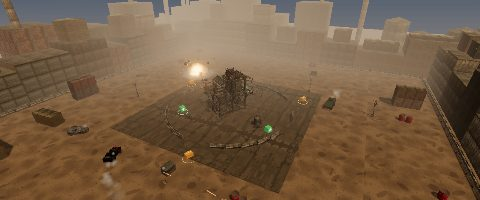
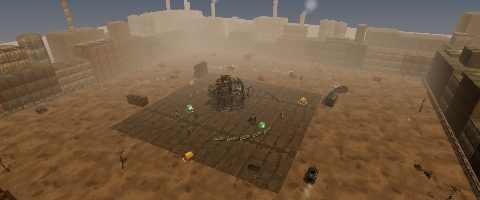
Real simulated explosions, fire and smoke; slower cars; roomier arenas
- Effects play Unity Labs' CC0 VFX flipbooks (Houdini simulations) as WebP atlases with frame
  cross-fading: big and small explosions, fireballs, looping flames, rolling smoke, ground dust rings,
  fireball muzzle flashes, cloud-based smoke screen and toxic haze
- Fewer, larger flame and smoke sprites so fire reads as tongues of flame, not a white blob
- Top speed about 20% lower again, gentler steering curve on the stick, steadier at top speed
- Arenas about 20% larger with wider lanes between cover

Claude-Session: https://claude.ai/code/session_01Lf2sJUR3KNdHaBL2r5wrqA

diff --git a/src/fx.js b/src/fx.js
@@ -123,6 +123,74 @@ class System {
   clear() { this.n = 0; this.geo.setDrawRange(0, 0); }
 }
 
+// ---------- flipbook particles ----------
+// Pre-rendered simulations (Unity Labs VFX flipbooks, CC0) played back frame by frame on each particle,
+// with a cross-fade between neighbouring frames so even 25-frame explosions look smooth.
+const FVERT = `
+attribute float size; attribute vec4 pcolor; attribute float rot; attribute float frame;
+varying vec4 vColor; varying float vRot; varying float vFrame;
+uniform float scale;
+void main() {
+  vColor = pcolor; vRot = rot; vFrame = frame;
+  vec4 mv = modelViewMatrix * vec4(position, 1.0);
+  gl_PointSize = size * scale / max(0.1, -mv.z);
+  gl_Position = projectionMatrix * mv;
+}`;
+const FFRAG = `
+uniform sampler2D map; uniform float boost; uniform vec2 grid; uniform float frames;
+varying vec4 vColor; varying float vRot; varying float vFrame;
+vec4 cell(float f, vec2 q) {
+  float col = mod(f, grid.x), row = floor(f / grid.x);
+  return texture2D(map, vec2((col + q.x) / grid.x, 1.0 - (row + q.y) / grid.y));
+}
+void main() {
+  vec2 p = gl_PointCoord - 0.5;
+  float c = cos(vRot), s = sin(vRot);
+  vec2 q = vec2(c * p.x - s * p.y, s * p.x + c * p.y) + 0.5;
+  if (q.x < 0.0 || q.x > 1.0 || q.y < 0.0 || q.y > 1.0) discard;
+  q = clamp(q, 0.004, 0.996); // keep away from the neighbouring cell
+  float f0 = floor(vFrame), k = vFrame - f0;
+  vec4 t = mix(cell(f0, q), cell(min(f0 + 1.0, frames - 1.0), q), k);
+  float a = t.a * vColor.a;
+  if (a < 0.01) discard;
+  gl_FragColor = vec4(vColor.rgb * t.rgb * boost, a);
+}`;
+const FLIP = {}; // name -> { tex, cols, rows, frames }
+function flipTex(name, cols, rows) {
+  if (FLIP[name]) return FLIP[name];
+  const tex = new THREE.TextureLoader().load(new URL(`../assets/vfx/${name}.webp`, import.meta.url).href);
+  tex.colorSpace = THREE.SRGBColorSpace; tex.generateMipmaps = false; tex.minFilter = THREE.LinearFilter; // mips would bleed cells together
+  return (FLIP[name] = { tex, cols, rows, frames: cols * rows });
+}
+class FlipSystem extends System {
+  constructor(max, additive, sheet, boost) {
+    super(max, additive, sheet.tex, boost);
+    this.sheet = sheet;
+    this.frame = new Float32Array(max); this.fps = new Float32Array(max); this.f0 = new Float32Array(max);
+    this.geo.setAttribute('frame', new THREE.BufferAttribute(this.frame, 1).setUsage(THREE.DynamicDrawUsage));
+    this.mat.vertexShader = FVERT; this.mat.fragmentShader = FFRAG;
+    this.mat.uniforms.grid = { value: new THREE.Vector2(sheet.cols, sheet.rows) }; this.mat.uniforms.frames = { value: sheet.frames };
+  }
+  // fps 0 plays the whole sequence once over the particle's life; fps > 0 loops at that rate (flames)
+  spawnF(x, y, z, vx, vy, vz, life, s0, s1, c0, c1, grav = 0, drag = 1, delay = 0, fps = 0, spin = null) {
+    const n = this.n; this.spawn(x, y, z, vx, vy, vz, life, s0, s1, c0, c1, grav, drag, delay);
+    if (this.n === n) return;
+    this.fps[n] = fps; this.f0[n] = fps ? Math.random() * this.sheet.frames : 0; this.frame[n] = this.f0[n];
+    if (spin !== null) this.spin[n] = spin;
+  }
+  update(dt) {
+    const F = this.sheet.frames;
+    for (let i = 0; i < this.n; i++) {
+      if (this.delay[i] > 0) continue;
+      const t = 1 - this.life[i] / this.maxLife[i];
+      this.frame[i] = this.fps[i] ? (this.f0[i] + (this.maxLife[i] - this.life[i]) * this.fps[i]) % (F - 1) : Math.min(F - 1.001, t * (F - 1));
+    }
+    super.update(dt);
+    this.geo.attributes.frame.needsUpdate = true;
+  }
+  kill(i) { const j = this.n - 1; this.frame[i] = this.frame[j]; this.fps[i] = this.fps[j]; this.f0[i] = this.f0[j]; super.kill(i); }
+}
+
 const R = (a, b) => a + Math.random() * (b - a);
 let PUFF = null, SCORCH = null;
 
@@ -135,6 +203,17 @@ export class FX {
     this.hot = new System(900, true, PUFF, 2.4); // sparks and flashes: small, very bright, they bloom
     this.smoke.points.renderOrder = 1; this.fire.points.renderOrder = 2; this.hot.points.renderOrder = 3;
     scene.add(this.smoke.points, this.fire.points, this.hot.points);
+    // flipbook layers: real explosion/fire/smoke simulations
+    this.fbBlast = new FlipSystem(40, false, flipTex('explosion_big', 5, 5), 1.45);
+    this.fbBlastS = new FlipSystem(70, false, flipTex('explosion', 5, 5), 1.4);
+    this.fbFire = new FlipSystem(260, true, flipTex('flame', 16, 4), 1.05);
+    this.fbFire2 = new FlipSystem(140, true, flipTex('flame_b', 16, 4), 1.05);
+    this.fbBall = new FlipSystem(160, true, flipTex('fireball', 8, 8), 1.25);
+    this.fbSmoke = new FlipSystem(320, false, flipTex('smoke', 8, 8), 1);
+    this.fbCloud = new FlipSystem(200, false, flipTex('cloud', 8, 8), 1);
+    this.fbDisc = new FlipSystem(60, false, flipTex('disc', 16, 4), 1);
+    this.flips = [this.fbSmoke, this.fbCloud, this.fbDisc, this.fbBlast, this.fbBlastS, this.fbFire, this.fbFire2, this.fbBall];
+    this.flips.forEach((f, i) => { f.points.renderOrder = 1 + i * 0.1; scene.add(f.points); });
     this.lights = [0, 1, 2].map(() => { const l = new THREE.PointLight(0xff9a40, 0, 55, 1.5); scene.add(l); return { l, t: 0 }; });
     this.li = 0;
     for (const l of this.lines || []) this.scene.remove(l.m);
@@ -143,7 +222,7 @@ export class FX {
     this.debrisMat = [new THREE.MeshStandardMaterial({ color: 0x2a2724, metalness: 0.7, roughness: 0.5, flatShading: true }), new THREE.MeshStandardMaterial({ color: 0x5a3018, metalness: 0.4, roughness: 0.8, flatShading: true })];
     this.scorchGeo = new THREE.PlaneGeometry(1, 1);
   }
-  setScale(h) { for (const s of [this.smoke, this.fire, this.hot]) s.mat.uniforms.scale.value = h * 0.9; }
+  setScale(h) { for (const s of [this.smoke, this.fire, this.hot, ...this.flips]) s.mat.uniforms.scale.value = h * 0.9; }
 
   light(x, y, z, power, color = 0xff9a40) {
     const L = this.lights[this.li++ % this.lights.length];
@@ -151,35 +230,40 @@ export class FX {
   }
 
   explosion(x, z, size = 1, opts = {}) {
-    const y = 1.0;
-    // 1) white-hot core flash
-    this.hot.spawn(x, y + 0.8, z, 0, 0, 0, 0.1, 4 * size, 9 * size, [1, 0.75, 0.45, 0.55], [1, 0.35, 0.08, 0]);
-    // 2) rolling fireball
-    for (let i = 0; i < 16 * size; i++) {
-      const a = Math.random() * 6.28, el = R(-0.2, 1.2), s = R(3, 9) * size;
-      this.fire.spawn(x + R(-0.5, 0.5), y + R(0, 1), z + R(-0.5, 0.5), Math.cos(a) * s * Math.cos(el), Math.sin(el) * s + 2, Math.sin(a) * s * Math.cos(el),
-        R(0.5, 1.0), R(2, 3.5) * size, R(5, 8) * size, [1, R(0.45, 0.6), 0.15, 0.42], [0.45, 0.06, 0.02, 0], -3, 2.6, R(0, 0.08));
+    const y = 1.0, big = size >= 1.2;
+    // 1) flash
+    this.hot.spawn(x, y + 0.8, z, 0, 0, 0, 0.09, 5 * size, 11 * size, [1, 0.8, 0.55, 0.6], [1, 0.4, 0.1, 0]);
+    // 2) the main blast: one big simulated explosion (fire turning into its own smoke), plus offset secondary bursts
+    (big ? this.fbBlast : this.fbBlastS).spawnF(x, y + 1.6 * size, z, 0, 1.2, 0, R(1.3, 1.6) * Math.max(1, size * 0.9), 7.5 * size, 10.5 * size, [1, 1, 1, 1], [1, 1, 1, 0.85], -0.4, 1);
+    const extra = Math.round(2 + size * 2);
+    for (let i = 0; i < extra; i++) {
+      const a = Math.random() * 6.28, d = R(1, 2.6) * size;
+      this.fbBlastS.spawnF(x + Math.cos(a) * d, y + R(0.6, 2) * size, z + Math.sin(a) * d, Math.cos(a) * 2, R(0.5, 2.5), Math.sin(a) * 2, R(1.1, 1.5), R(3.5, 5.5) * size, R(6, 8) * size, [1, 1, 1, 1], [1, 1, 1, 0.7], -0.3, 1.2, R(0.04, 0.22));
     }
-    // 3) thick smoke column that takes over as the fire dies
-    for (let i = 0; i < 26 * size; i++) {
-      const a = Math.random() * 6.28, s = R(1, 4.5) * size, dark = R(0.04, 0.1);
-      this.smoke.spawn(x + R(-1.2, 1.2), y + R(0.5, 2.5), z + R(-1.2, 1.2), Math.cos(a) * s, R(2.5, 6), Math.sin(a) * s,
-        R(2.2, 4.2), R(3.5, 5) * size, R(10, 15) * size, [dark, dark * 0.95, dark * 0.9, 0.92], [0.18, 0.17, 0.16, 0], -0.8, 0.9, R(0.12, 0.35));
+    // 3) fire billows thrown outward
+    for (let i = 0; i < 6 * size; i++) {
+      const a = Math.random() * 6.28, sp = R(4, 9) * size;
+      this.fbBall.spawnF(x, y + 0.6, z, Math.cos(a) * sp, R(2, 6), Math.sin(a) * sp, R(0.45, 0.8), R(1.6, 2.6) * size, R(3.5, 5) * size, [1, 0.85, 0.7, 0.9], [0.9, 0.35, 0.12, 0], -2, 2.4, 0, 0);
     }
-    // 4) sparks and burning bits arcing out
-    for (let i = 0; i < 34 * size; i++) {
+    // 4) the smoke column that lingers after
+    for (let i = 0; i < 6 * size; i++) {
+      const a = Math.random() * 6.28, sp = R(0.5, 2.5) * size, dk = R(0.18, 0.3);
+      this.fbSmoke.spawnF(x + R(-1, 1) * size, y + R(1.5, 3) * size, z + R(-1, 1) * size, Math.cos(a) * sp, R(2, 4.5), Math.sin(a) * sp, R(3.2, 5), R(5, 7) * size, R(12, 17) * size, [dk, dk * 0.95, dk * 0.9, 0.85], [0.35, 0.34, 0.33, 0], -0.4, 0.6, R(0.5, 1.0));
+    }
+    // 5) ground dust ring
+    for (let i = 0; i < 8; i++) {
+      const a = (i / 8) * 6.28 + R(-0.3, 0.3), sp = R(10, 16) * size;
+      this.fbDisc.spawnF(x + Math.cos(a), 0.6, z + Math.sin(a), Math.cos(a) * sp, R(0.3, 1), Math.sin(a) * sp, R(0.9, 1.4), 2.5 * size, 6.5 * size, [0.62, 0.55, 0.47, 0.7], [0.6, 0.53, 0.45, 0], 0, 3);
+    }
+    // 6) sparks and burning bits arcing out
+    for (let i = 0; i < 30 * size; i++) {
       const a = Math.random() * 6.28, s = R(12, 32) * size;
       this.hot.spawn(x, y + 0.5, z, Math.cos(a) * s, R(6, 20), Math.sin(a) * s, R(0.5, 1.2), R(0.18, 0.32), 0.08, [1, 0.8, 0.4, 1], [1, 0.3, 0.05, 0], 26, 0.6);
     }
-    // 5) dust shock ring along the ground
-    for (let i = 0; i < 26 * size; i++) {
-      const a = (i / (26 * size)) * 6.28, s = R(14, 22) * size;
-      this.smoke.spawn(x + Math.cos(a), 0.4, z + Math.sin(a), Math.cos(a) * s, R(0.3, 1.5), Math.sin(a) * s, R(0.7, 1.3), 1.5 * size, 5 * size, [0.36, 0.3, 0.24, 0.4], [0.36, 0.3, 0.24, 0], 0, 3.5);
-    }
-    // 6) debris
+    // 7) debris
     const chunks = Math.round((opts.debris ?? 6) * size);
     for (let i = 0; i < chunks; i++) this.chunk(x, y + 0.5, z, size, opts.burning !== false);
-    // 7) light + scorch
+    // 8) light + scorch
     this.light(x, 4, z, 85 * size);
     this.scorch(x, z, 4.5 * size);
   }
@@ -211,8 +295,10 @@ export class FX {
     this.smoke.spawn(x, y, z, R(-1, 1), R(0.5, 1.5), R(-1, 1), 0.5, 0.6, 1.8, [0.5, 0.48, 0.45, 0.5], [0.5, 0.48, 0.45, 0]);
   }
   impact(x, z) { this.smoke.spawn(x, 0.3, z, R(-1, 1), R(1, 3), R(-1, 1), R(0.4, 0.7), 0.6, 2, [0.55, 0.47, 0.38, 0.6], [0.55, 0.47, 0.38, 0], 3); }
-  muzzle(x, y, z, dx, dz, isPlayer) {
-    this.hot.spawn(x, y, z, dx * 4, 0, dz * 4, 0.05, R(1.6, 2.4), 0.8, [1, 0.85, 0.45, 1], [1, 0.5, 0.1, 0]);
+  muzzle(x, y, z, dx, dz, isPlayer) { // a single fireball frame flashed for a few hundredths of a second
+    this.fbBall.spawnF(x + dx * 0.4, y, z + dz * 0.4, dx * 6, 0, dz * 6, 0.06, R(1.1, 1.6), R(1.6, 2.2), [1, 0.95, 0.8, 1], [1, 0.6, 0.25, 0], 0, 1, 0, 0);
+    this.hot.spawn(x, y, z, dx * 4, 0, dz * 4, 0.05, R(1.2, 1.8), 0.6, [1, 0.85, 0.45, 1], [1, 0.5, 0.1, 0]);
+    if (Math.random() < 0.25) this.hot.spawn(x, y, z, dx * 3 + R(-2, 2), R(1, 3), dz * 3 + R(-2, 2), 0.25, 0.12, 0.05, [1, 0.8, 0.4, 1], [1, 0.4, 0.1, 0], 20, 0.5); // ejected spark
     this.hot.spawn(x + dx * 0.5, y, z + dz * 0.5, dx * 10, 0, dz * 10, 0.04, 1.2, 0.5, [1, 0.8, 0.4, 1], [1, 0.4, 0.1, 0]);
     if (isPlayer && Math.random() < 0.5) this.light(x, y + 0.3, z, 18, 0xffb060);
   }
@@ -220,16 +306,19 @@ export class FX {
     this.hot.spawn(x, y, z, R(-0.4, 0.4), R(-0.4, 0.4), R(-0.4, 0.4), 0.09, 1.3, 0.5, [1, 0.8, 0.45, 1], [1, 0.4, 0.1, 0]);
     this.smoke.spawn(x, y, z, R(-0.5, 0.5), R(0.3, 1.2), R(-0.5, 0.5), R(0.9, 1.6), 0.9, 3.6, [0.6, 0.58, 0.55, 0.55], [0.45, 0.44, 0.42, 0]);
   }
-  burn(x, y, z) {
-    this.smoke.spawn(x + R(-0.6, 0.6), y, z + R(-0.6, 0.6), R(-0.4, 0.4), R(2, 4.5), R(-0.4, 0.4), R(1.8, 3.2), 1.6, 6.5, [0.05, 0.045, 0.04, 0.8], [0.14, 0.13, 0.12, 0], -0.3, 0.5);
+  burn(x, y, z) { // thick dark smoke rolling off damaged cars and wrecks
+    if (Math.random() < 0.5) return; // fewer, larger puffs: the flipbook carries the detail
+    const dk = R(0.12, 0.22);
+    this.fbSmoke.spawnF(x + R(-0.5, 0.5), y + 0.3, z + R(-0.5, 0.5), R(-0.5, 0.5), R(2, 3.8), R(-0.5, 0.5), R(2.2, 3.4), 1.6, R(6, 8.5), [dk, dk * 0.95, dk * 0.9, 0.8], [0.3, 0.29, 0.28, 0], -0.25, 0.5);
   }
-  flames(x, y, z, k = 1) {
-    this.fire.spawn(x + R(-0.5, 0.5), y, z + R(-0.5, 0.5), R(-0.4, 0.4), R(2, 4), R(-0.4, 0.4), R(0.35, 0.65), R(1.2, 2) * k, 0.5, [1, 0.65, 0.2, 0.95], [0.8, 0.12, 0.02, 0], -2);
+  flames(x, y, z, k = 1) { // licking flames, looped simulation
+    const sys = Math.random() < 0.6 ? this.fbFire : this.fbFire2;
+    sys.spawnF(x + R(-0.4, 0.4), y + 0.9 * k, z + R(-0.4, 0.4), R(-0.3, 0.3), R(0.6, 1.4), R(-0.3, 0.3), R(0.6, 0.9), R(2.4, 3.2) * k, R(2.8, 3.6) * k, [1, 0.72, 0.45, 0.8], [0.9, 0.4, 0.2, 0], -0.5, 1, 0, 26, 0);
   }
   flame(x, y, z, dx, dz) {
-    for (let i = 0; i < 4; i++) {
+    for (let i = 0; i < 3; i++) {
       const sp = R(15, 24), a = R(-0.2, 0.2), c = Math.cos(a), s = Math.sin(a);
-      this.fire.spawn(x, y, z, (dx * c - dz * s) * sp, R(0, 2.5), (dx * s + dz * c) * sp, R(0.35, 0.6), 0.7, R(4, 6), [1, 0.85, 0.4, 1], [0.7, 0.12, 0.02, 0], -3, 1.4);
+      this.fbBall.spawnF(x, y, z, (dx * c - dz * s) * sp, R(0, 2.5), (dx * s + dz * c) * sp, R(0.35, 0.6), 0.9, R(4.5, 6.5), [1, 0.9, 0.7, 1], [0.8, 0.3, 0.1, 0], -3, 1.4, 0, 0);
     }
     if (Math.random() < 0.4) this.smoke.spawn(x + dx * 8, y + 1, z + dz * 8, dx * 6, R(2, 4), dz * 6, R(1, 1.6), 2, 6, [0.12, 0.11, 0.1, 0.5], [0.2, 0.2, 0.2, 0]);
   }
@@ -245,11 +334,13 @@ export class FX {
 
   // ---------- ability effects ----------
   toxic(x, z) { // green poison haze hugging the ground
+    if (Math.random() < 0.5) this.fbCloud.spawnF(x + R(-0.8, 0.8), R(0.4, 1.2), z + R(-0.8, 0.8), R(-0.5, 0.5), R(0.3, 1), R(-0.5, 0.5), R(1.5, 2.4), R(2, 2.8), R(4.5, 6), [0.45, 1.25, 0.3, 0.55], [0.3, 0.8, 0.15, 0], -0.05, 0.6);
     this.smoke.spawn(x + R(-0.8, 0.8), R(0.3, 1.2), z + R(-0.8, 0.8), R(-0.6, 0.6), R(0.4, 1.4), R(-0.6, 0.6), R(1.2, 2), R(1.6, 2.4), R(4, 6), [0.35, 0.95, 0.2, 0.32], [0.2, 0.55, 0.1, 0], -0.1, 0.6);
     if (Math.random() < 0.35) this.hot.spawn(x + R(-1, 1), R(0.2, 0.8), z + R(-1, 1), 0, R(1, 2.5), 0, R(0.4, 0.8), 0.6, 0.15, [0.6, 1, 0.3, 1], [0.2, 0.9, 0.1, 0]);
   }
   smokeScreen(x, z, r) { // thick grey cover around the car
     const a = Math.random() * 6.28, d = Math.sqrt(Math.random()) * r;
+    if (Math.random() < 0.6) return this.fbCloud.spawnF(x + Math.cos(a) * d, R(0.6, 1.8), z + Math.sin(a) * d, R(-1, 1), R(0.2, 0.9), R(-1, 1), R(2.6, 3.6), R(2.5, 3.5), R(6, 8), [0.75, 0.75, 0.73, 0.65], [0.7, 0.7, 0.68, 0], -0.05, 0.5);
     this.smoke.spawn(x + Math.cos(a) * d, R(0.4, 1.8), z + Math.sin(a) * d, R(-1.2, 1.2), R(0.3, 1.2), R(-1.2, 1.2), R(2.2, 3.2), R(2, 3), R(5, 7), [0.6, 0.6, 0.58, 0.42], [0.5, 0.5, 0.48, 0], -0.1, 0.5);
   }
   trailColor(x, y, z, c) { this.hot.spawn(x + R(-0.4, 0.4), y, z + R(-0.4, 0.4), R(-0.5, 0.5), R(0, 0.8), R(-0.5, 0.5), 0.35, 1.4, 0.3, [c[0], c[1], c[2], 1], [c[0] * 0.6, c[1] * 0.4, c[2] * 0.8, 0]); }
@@ -273,6 +364,7 @@ export class FX {
   update(dt) {
     if (this.lines) this.lines = this.lines.filter((l) => { l.t -= dt; l.m.material.opacity = 0.55 * Math.max(0, l.t / l.life); if (l.t <= 0) { this.scene.remove(l.m); l.m.geometry.dispose(); l.m.material.dispose(); return false; } return true; });
     this.smoke.update(dt); this.fire.update(dt); this.hot.update(dt);
+    for (const f of this.flips) f.update(dt);
     for (const L of this.lights) if (L.t > 0) { L.t -= dt; L.l.intensity *= Math.exp(-dt * 10); if (L.t <= 0) L.l.intensity = 0; }
     this.rings = this.rings.filter((r) => {
       r.t += dt; const k = r.t / 0.45;
@@ -298,6 +390,7 @@ export class FX {
   }
   clear() {
     this.smoke.clear(); this.fire.clear(); this.hot.clear();
+    for (const f of this.flips) f.clear();
     for (const r of this.rings) this.scene.remove(r.m);
     for (const d of this.debris) this.scene.remove(d.m);
     for (const s of this.scorches) this.scene.remove(s.m);

diff --git a/src/game.js b/src/game.js
@@ -315,7 +315,7 @@ export class Game {
     if (!ram && !dash && c.speed > s.maxSpeed * (nitro ? 1.75 : 1) * slow) c.speed -= (c.speed - s.maxSpeed * slow) * 2 * dt;
     // steering eases in and out instead of snapping, which keeps the car stable on a touch stick
     c.steerS = (c.steerS || 0) + (c.steer - (c.steerS || 0)) * Math.min(1, dt * (c.isPlayer ? 20 : 12));
-    const turnScale = clamp(c.speed / 4, -1, 1) * (1 - 0.25 * clamp(Math.abs(c.speed) / maxS, 0, 1));
+    const turnScale = clamp(c.speed / 4, -1, 1) * (1 - 0.3 * clamp(Math.abs(c.speed) / maxS, 0, 1)); // a little less twitchy at top speed
     c.heading = wrap(c.heading + c.steerS * s.turn * 1.15 * turnScale * dt + (c.skidT > 0 ? c.skidSpin * Math.min(1, c.skidT) * dt : 0));
     const fx = Math.sin(c.heading), fz = Math.cos(c.heading);
     c.x += (fx * c.speed + c.kx) * dt; c.z += (fz * c.speed + c.kz) * dt;
@@ -329,7 +329,7 @@ export class Game {
     if (Math.abs(c.speed) > 12 && Math.random() < 0.5) this.fx.dust(c.x - fx * 2, c.z - fz * 2, this.map.id === 'dustbowl' ? 1.6 : 0.8);
     if (nitro || ram) this.fx.exhaust(c.x - fx * 2.4, 0.9, c.z - fz * 2.4, fx, fz);
     if (c.hp < c.maxHp * 0.4 && Math.random() < 0.35) this.fx.burn(c.x + fx * 1.2, 1.6, c.z + fz * 1.2);
-    if (c.hp < c.maxHp * 0.2 && Math.random() < 0.5) this.fx.flames(c.x + fx * 1.4, 1.3, c.z + fz * 1.4);
+    if (c.hp < c.maxHp * 0.2 && Math.random() < 0.16) this.fx.flames(c.x + fx * 1.4, 1.3, c.z + fz * 1.4);
   }
 
   // The car body is three circles along its length (sized from its model), so it can get close to things side-on.
@@ -758,7 +758,7 @@ export class Game {
       const n = Math.ceil(zn.r * 0.6);
       if (zn.kind === 'toxic') { for (let i = 0; i < n; i++) if (Math.random() < 0.45) { const a = Math.random() * TAU, d = Math.sqrt(Math.random()) * zn.r; this.fx.toxic(zn.x + Math.cos(a) * d, zn.z + Math.sin(a) * d); } }
       else {
-      for (let i = 0; i < n; i++) if (Math.random() < 0.5) { const a = Math.random() * TAU, d = Math.sqrt(Math.random()) * zn.r; this.fx.flames(zn.x + Math.cos(a) * d, 0.3, zn.z + Math.sin(a) * d, 1.4); }
+      for (let i = 0; i < n; i++) if (Math.random() < 0.14) { const a = Math.random() * TAU, d = Math.sqrt(Math.random()) * zn.r; this.fx.flames(zn.x + Math.cos(a) * d, 0.3, zn.z + Math.sin(a) * d, 1.3); }
       if (Math.random() < 0.3) this.fx.burn(zn.x + R(-zn.r, zn.r) * 0.5, 1, zn.z + R(-zn.r, zn.r) * 0.5);
       }
       for (const c of this.cars) if (c.alive && c !== zn.safe && Math.hypot(c.x - zn.x, c.z - zn.z) < zn.r + HR(c) * 0.5) { this.damage(c, zn.dps * dt, zn.owner, true, zn.kind === 'toxic' ? 'special' : 'fire'); if (zn.kind === 'toxic' && c.isPlayer && !this.poisonMsg) { this.poisonMsg = true; this.hud.toast(tr('POISONED')); setTimeout(() => (this.poisonMsg = false), 2500); } }
@@ -926,7 +926,7 @@ export class Game {
   updateWreck(c, dt) {
     c.deathT += dt;
     if (c.deathT < 8 && Math.random() < 0.55) this.fx.burn(c.x, c.y + 1.4, c.z);
-    if (c.deathT < 4 && Math.random() < 0.7) this.fx.flames(c.x + R(-1, 1), c.y + 1, c.z + R(-1, 1), 1.2);
+    if (c.deathT < 5 && Math.random() < 0.22) this.fx.flames(c.x + R(-1, 1), c.y + 1, c.z + R(-1, 1), 1.3);
     // airborne tumble
     if (c.y > 0 || c.vy > 0) {
       c.vy -= 30 * dt; c.y += c.vy * dt;

diff --git a/src/data.js b/src/data.js
@@ -128,8 +128,8 @@ export function carStats(car, up = {}) {
   const s = car.stats;
   const m = (k) => 1 + 0.12 * (up[k] || 0);
   return {
-    maxSpeed: (12.5 + s.speed * 1.35) * (1 + 0.06 * (up.speed || 0)), // a little slower than before, easier to aim
-    accel: (20 + s.speed * 1.6) * m('speed'), // but quicker off the line
+    maxSpeed: (10.5 + s.speed * 1.1) * (1 + 0.05 * (up.speed || 0)), // tuned down twice after playtests: easier to control and aim
+    accel: (17 + s.speed * 1.3) * m('speed'), // still quick off the line
     turn: 1.9 + (s.handling || 6) * 0.11,
     hp: Math.round((70 + s.armor * 15) * m('armor')),
     gunDmg: (1.1 + s.gun * 0.2) * m('gun'),
@@ -145,27 +145,27 @@ export const MAPS = [
   {
     id: 'scrapyard', name: 'Scrapyard', layout: 'scrapyard', tag: 'Junk piles and a watchtower',
     desc: 'Dumpsters, cages and tarp-covered drums around an old watchtower. Plenty of cover, short sight lines.',
-    size: 110, ground: 0x4f4032, groundAlt: 0x3b2f25, fog: 0x7d6a58, skyTop: 0x3b3f4a, light: 0xffcf9a, skyLight: 0xffe6c8, concrete: 0,
+    size: 132, ground: 0x4f4032, groundAlt: 0x3b2f25, fog: 0x7d6a58, skyTop: 0x3b3f4a, light: 0xffcf9a, skyLight: 0xffe6c8, concrete: 0,
   },
   {
     id: 'refinery', name: 'Refinery', layout: 'refinery', tag: 'Fuel tanks ready to blow',
     desc: 'Concrete pads, storage tanks, gas carts and rows of fuel barrels. One stray rocket and the whole row goes up.',
-    size: 120, ground: 0x55524c, groundAlt: 0x44413c, fog: 0x8b9099, skyTop: 0x41505f, light: 0xe6ecff, skyLight: 0xdfe8ff, concrete: 0.8,
+    size: 142, ground: 0x55524c, groundAlt: 0x44413c, fog: 0x8b9099, skyTop: 0x41505f, light: 0xe6ecff, skyLight: 0xdfe8ff, concrete: 0.8,
   },
   {
     id: 'dustbowl', name: 'Dust Bowl', layout: 'dustbowl', tag: 'Open ground, rock pillars',
     desc: 'A dried lake bed broken by rock pillars, barrier lines and a lonely outpost. Fast cars rule here.',
-    size: 130, ground: 0xb08a5a, groundAlt: 0x9c7a4f, fog: 0xd8b98d, skyTop: 0x8fa3b8, light: 0xffe2b0, skyLight: 0xfff0d8, concrete: 0,
+    size: 150, ground: 0xb08a5a, groundAlt: 0x9c7a4f, fog: 0xd8b98d, skyTop: 0x8fa3b8, light: 0xffe2b0, skyLight: 0xfff0d8, concrete: 0,
   },
   {
     id: 'shanty', name: 'Shanty Town', layout: 'shanty', tag: 'Three towers, tight streets',
     desc: 'Three scrap towers form a ring around the market square. Every corner is an ambush.',
-    size: 115, ground: 0x4a3d33, groundAlt: 0x372d26, fog: 0x5d5560, skyTop: 0x241f2c, light: 0xffb27a, skyLight: 0xd9b8a8, concrete: 0.45,
+    size: 138, ground: 0x4a3d33, groundAlt: 0x372d26, fog: 0x5d5560, skyTop: 0x241f2c, light: 0xffb27a, skyLight: 0xd9b8a8, concrete: 0.45,
   },
   {
     id: 'outpost', name: 'The Outpost', layout: 'outpost', tag: 'Fight around the fortress',
     desc: 'A fortified tower inside a ring of concrete barriers with two gates. Circle it, breach it, hold it.',
-    size: 120, ground: 0x6b5a45, groundAlt: 0x574837, fog: 0xa38f7a, skyTop: 0x4d5868, light: 0xffd9a8, skyLight: 0xffeedd, concrete: 0.42,
+    size: 142, ground: 0x6b5a45, groundAlt: 0x574837, fog: 0xa38f7a, skyTop: 0x4d5868, light: 0xffd9a8, skyLight: 0xffeedd, concrete: 0.42,
   },
 ];
 

diff --git a/index.html b/index.html
@@ -389,7 +389,7 @@ html.ar .chip{padding:5px 6px 5px 16px}html.ar .chip .lbl{letter-spacing:0;font-
       <label><span data-t>Effects</span><input type="range" id="volSfx" min="0" max="100" step="1"></label></div></div>
     <div class="setrow"><div><b data-t>Graphics</b><span id="gfxNote"></span></div><div class="seg" id="gfxSeg"></div></div>
     <div class="setrow"><div><b data-t>Touch controls</b><span data-t>Bigger buttons suit large tablets</span></div><div class="seg" id="ctlSeg"></div></div>
-    <div class="setrow" style="border:0"><div style="width:100%"><b data-t>Credits</b><div class="credits"><div><span data-t>Game by</span> <b>Hussain Al-Akari</b></div><div><span data-t>Environment art</span>: <b>Post Apocalypse Kitbash</b> · Oleg Ushenok (Fab)</div><div><span data-t>Music</span>: <b>THE COST</b> · Kill Dyll</div><div><span data-t>Fonts</span>: <b>Saira</b> · Omnibus-Type, <b>Cairo</b> · Mohamed Gaber (SIL OFL)</div></div></div></div>
+    <div class="setrow" style="border:0"><div style="width:100%"><b data-t>Credits</b><div class="credits"><div><span data-t>Game by</span> <b>Hussain Al-Akari</b></div><div><span data-t>Environment art</span>: <b>Post Apocalypse Kitbash</b> · Oleg Ushenok (Fab)</div><div><span data-t>Music</span>: <b>THE COST</b> · Kill Dyll</div><div><span data-t>Visual effects</span>: <b>Free VFX Flipbooks</b> · Unity Labs (CC0)</div><div><span data-t>Fonts</span>: <b>Saira</b> · Omnibus-Type, <b>Cairo</b> · Mohamed Gaber (SIL OFL)</div></div></div></div>
   </div></div>
 </div>
 

diff --git a/src/i18n.js b/src/i18n.js
@@ -51,7 +51,7 @@ const AR = {
   'Auto: now {q}, adjusts to keep the game smooth': 'تلقائي: هلأ {q}، وبيتعدل ليضل اللعب ناعم', 'Fixed quality': 'جودة ثابتة',
   'Touch controls': 'أزرار اللمس', 'Bigger buttons suit large tablets': 'الأزرار الكبيرة أحسن للتابلت', 'Small': 'صغير', 'Normal': 'عادي', 'Large': 'كبير',
   'Language': 'اللغة', 'Credits': 'الشكر',
-  'Game by': 'لعبة من تطوير', 'Environment art': 'تصميم البيئة', 'Fonts': 'الخطوط',
+  'Game by': 'لعبة من تطوير', 'Environment art': 'تصميم البيئة', 'Visual effects': 'المؤثرات البصرية', 'Fonts': 'الخطوط',
   // editor
   'Edit controls': 'تعديل التحكم', 'Drag a button to move it. Tap one, then use the slider to resize it.': 'اسحب الزر لتحركه. اضغط على زر وبعدين استعمل الشريط لتغير حجمه.',
   'Size': 'الحجم', 'Reset': 'افتراضي', 'Save': 'حفظ', 'STICK': 'العصا',

diff --git a/src/arena.js b/src/arena.js
@@ -205,7 +205,7 @@ export function buildArena(scene, map) {
     if (Math.abs(x) > half - r - 3 || Math.abs(z) > half - r - 3) return false;
     for (let i = 0; i < 8; i++) { const a = (i / 8) * Math.PI * 2 + Math.PI / 2; if (Math.hypot(x - Math.cos(a) * spawnR, z - Math.sin(a) * spawnR) < r + 7) return false; }
     if (Math.hypot(x, z) < r + 5) return false;
-    return obstacles.every((o) => Math.hypot(o.x - x, o.z - z) > r + (o.r || Math.hypot(o.hw, o.hd)) + 4.5);
+    return obstacles.every((o) => Math.hypot(o.x - x, o.z - z) > r + (o.r || Math.hypot(o.hw, o.hd)) + 7.5); // wide lanes between cover
   };
   const place = (count, r, fn) => { let k = 0, tries = 0; while (k < count && tries++ < 500) { const x = (R() * 2 - 1) * half, z = (R() * 2 - 1) * half; if (clear(x, z, r)) { fn(x, z); k++; } } };
   const quarter = () => Math.floor(R() * 4) * (Math.PI / 2) + (R() - 0.5) * 0.25;

diff --git a/src/main.js b/src/main.js
@@ -524,7 +524,7 @@ const input = {
           if (Math.abs(diff) > 2.6 && Math.abs(p.speed) < 3) { th = -0.8 * mag; st = -st; } // target right behind: back up and swing round
         }
       } else if (scheme === 'autogas') { st = -this.jx; th = this.jy > 0.55 ? -1 : 1; }
-      else { th = Math.abs(this.jy) < 0.2 ? 0 : -this.jy; st = -Math.sign(this.jx) * Math.min(1, Math.abs(this.jx) * 1.5); } // classic: up drives, down reverses, sideways turns
+      else { th = Math.abs(this.jy) < 0.2 ? 0 : -this.jy; st = -Math.sign(this.jx) * Math.pow(Math.min(1, Math.abs(this.jx) * 1.2), 1.5); } // classic: up drives, down reverses; a soft curve keeps small corrections gentle
     } else if (scheme === 'autogas' && isTouch && game.state === 'fight') { th = 1; st = 0; }
     game.setInput(th, st, this.gun || k.has('Space'));
   },

diff --git a/README.md b/README.md
@@ -70,6 +70,11 @@ the 331-part FBX was split into a watchtower (49k triangles near, 15k far) and 1
 packed as base64 GLBs in `kit_models.js`. All pieces share one 2K/1K texture atlas. The conversion pages live in the
 session workspace, not in this repo.
 
+## Effects
+
+Explosions, fire, smoke and muzzle flashes play pre-rendered simulations: Unity Labs' free VFX flipbooks
+(CC0), resized to WebP atlases in `assets/vfx/` and played per particle with frame cross-fading (`src/fx.js`).
+
 ## Android build
 
 Every push to `main` runs `.github/workflows/android.yml` on GitHub's servers and publishes
